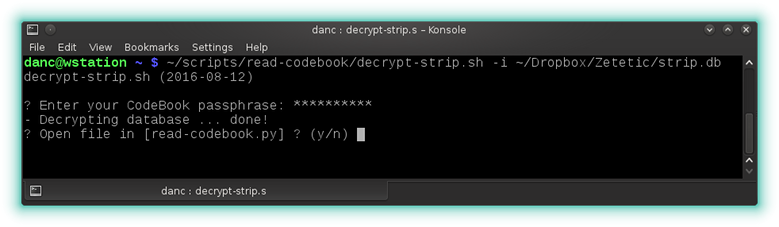
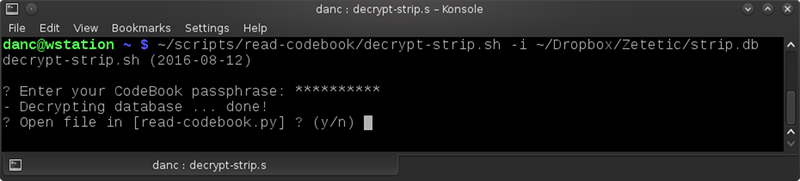
Update screenshots with consistent width and no glow

diff --git a/README.md b/README.md
@@ -26,6 +26,8 @@ This is a combination of **[BASH](https://en.wikipedia.org/wiki/Bash_\(Unix_shel
 
 ![menu](images/screenshot-3.png)
 
+![menu](images/screenshot-4.png)
+
 ---
 ###**Notes:**
 
